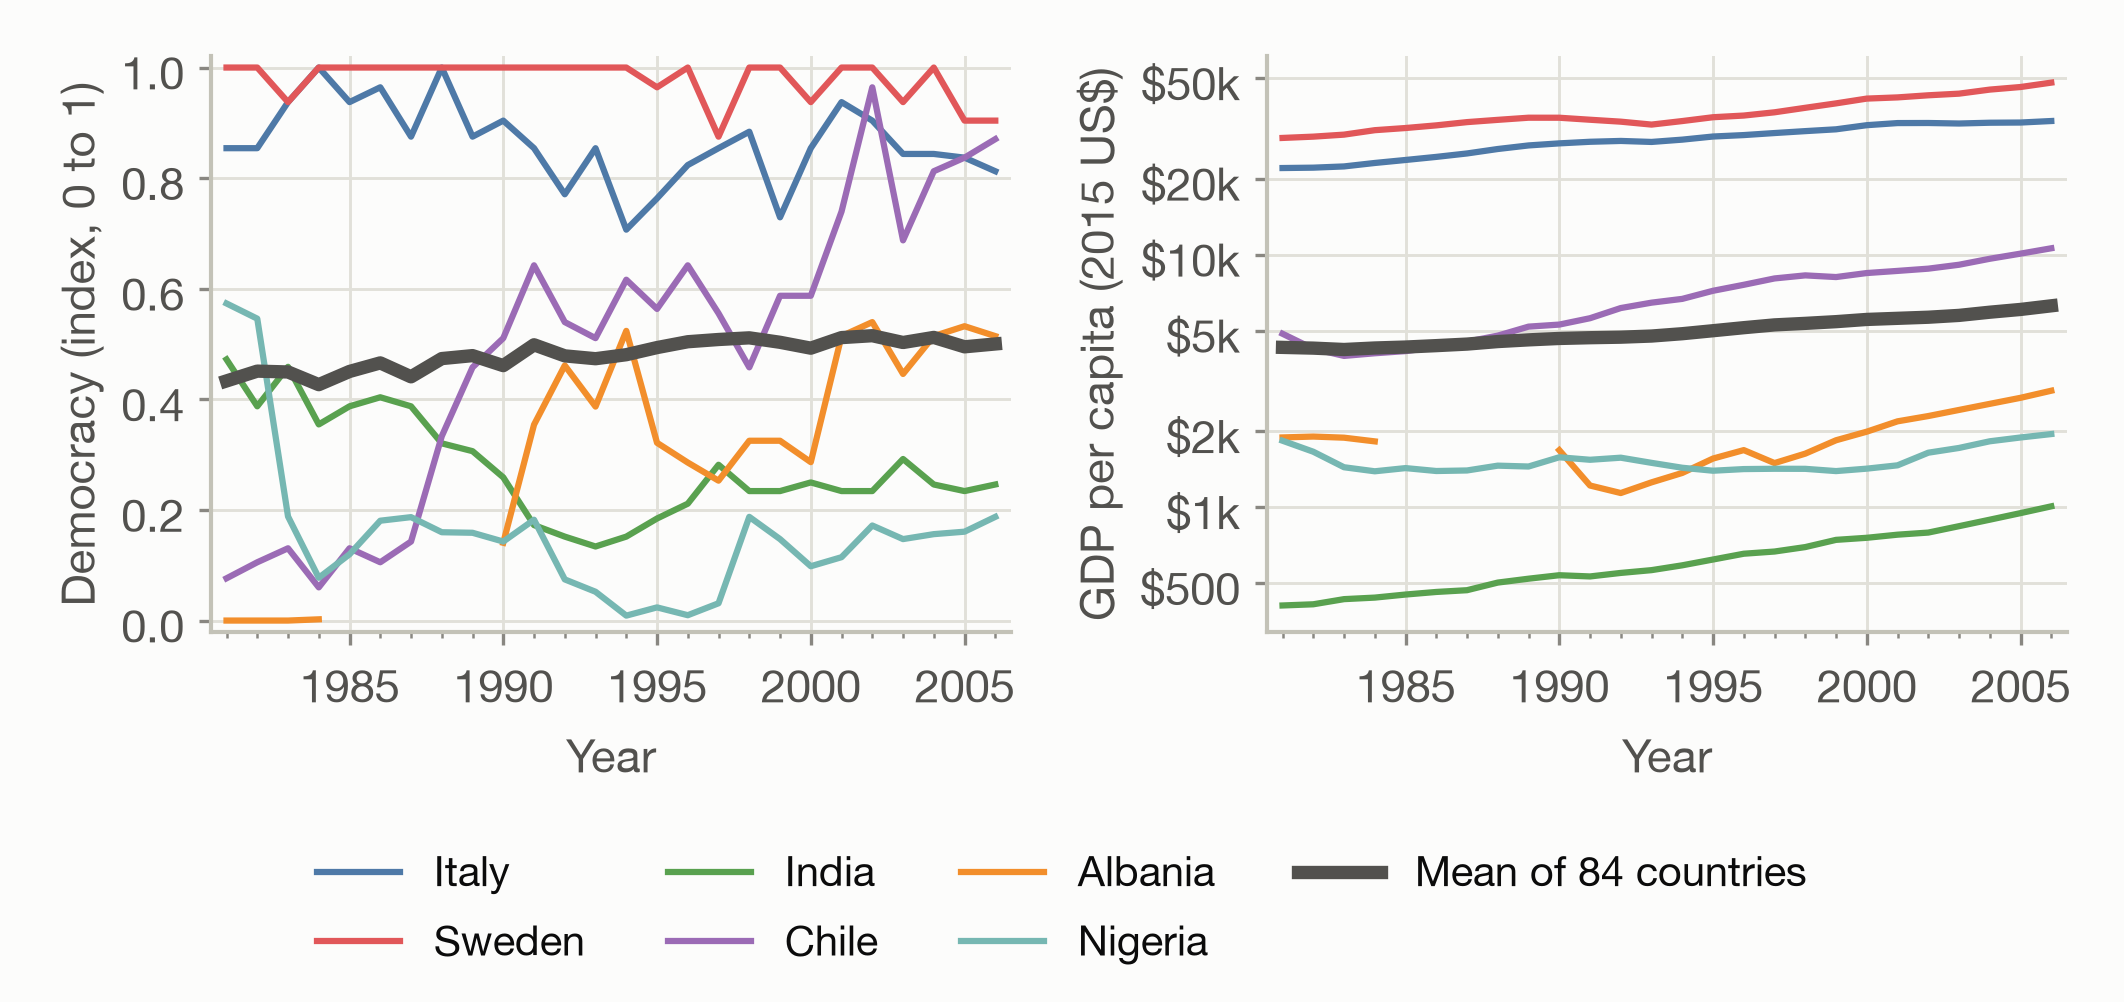
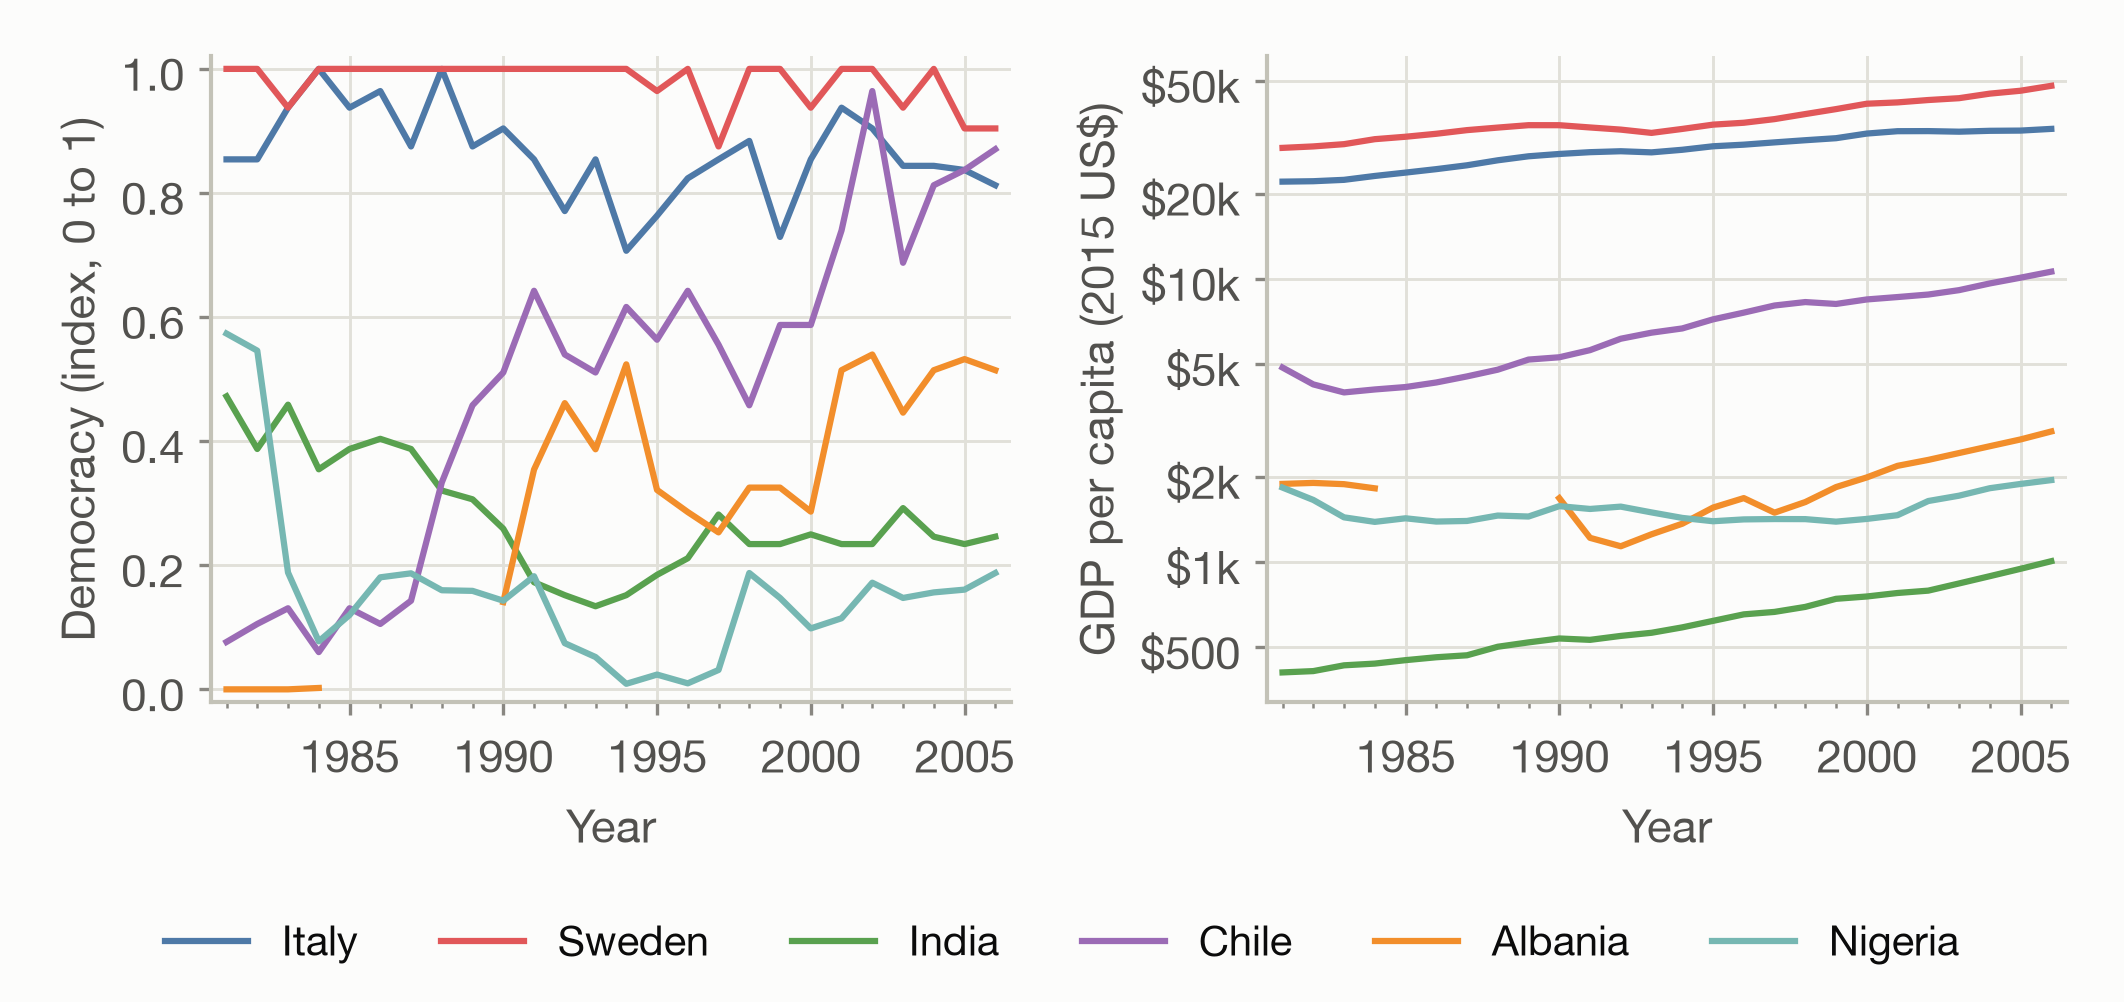
Step 3: drop the mean from Figures 1 and 2; text and appendix updated

diff --git a/Code/03_fig_trajectories_time.py b/Code/03_fig_trajectories_time.py
@@ -2,9 +2,7 @@
 
 Two panels: democracy D, and GDP per capita in constant 2015 US$ on a log axis,
 against year. The six representative countries are thin lines (gaps left where a
-year is missing); the mean over the balanced countries (both variables in every
-year) is a thick line. The GDP mean is the mean of G mapped back to dollars, i.e.
-the geometric mean of GDP per capita, so it sits where the model's mean state is.
+year is missing). No mean line (locked format).
 
 Reads Code/outputs/panel.csv. Writes outputs/figures/fig1_trajectories_time.png
 and outputs/figures/dark/fig1_trajectories_time.png.
@@ -13,14 +11,11 @@ import matplotlib.pyplot as plt
 import numpy as np
 
 from sds_common import (CM, D_LABEL, G_SCALE, GDP_LABEL, REP, REP_COLOUR, YEARS,
-                        dollar_axis, load_panel, mean_colour, save, style)
+                        dollar_axis, load_panel, save, style)
 
 p = load_panel()
-p["gdp_usd"] = np.exp(G_SCALE * p["G"])  # equals gdppc; via G so the mean is consistent
+p["gdp_usd"] = np.exp(G_SCALE * p["G"])  # equals gdppc (checked to 4e-10)
 years = np.arange(YEARS[0], YEARS[1] + 1)
-mean = p[p.balanced].groupby("year")[["D", "G"]].mean().reindex(years)
-mean["gdp_usd"] = np.exp(G_SCALE * mean["G"])
-n_bal = p.loc[p.balanced, "iso3"].nunique()
 
 for theme_name in ("light", "dark"):
     t = style(theme_name)
@@ -29,8 +24,6 @@ for theme_name in ("light", "dark"):
         for iso, name in REP.items():
             s = p[p.iso3 == iso].set_index("year")[var].reindex(years)  # NaN -> gap
             ax.plot(years, s.values, color=REP_COLOUR[iso], lw=1.5, label=name)
-        ax.plot(years, mean[var].values, color=mean_colour(t), lw=3.2,
-                label=f"Mean of {n_bal} countries", zorder=5)
         ax.set_xlabel("Year")
         ax.set_ylabel(label)
         ax.set_xlim(YEARS[0] - 0.5, YEARS[1] + 0.5)
@@ -39,8 +32,8 @@ for theme_name in ("light", "dark"):
     axes[0].set_ylim(-0.02, 1.02)
     dollar_axis(axes[1], "y")
     handles, labels = axes[0].get_legend_handles_labels()
-    fig.legend(handles, labels, loc="lower center", ncol=4, frameon=False,
+    fig.legend(handles, labels, loc="lower center", ncol=6, frameon=False,
                bbox_to_anchor=(0.5, 0.0))
-    fig.tight_layout(rect=(0, 0.17, 1, 1))
+    fig.tight_layout(rect=(0, 0.1, 1, 1))
     path = save(fig, "fig1_trajectories_time", theme_name)
     print(f"figure: {path}")

diff --git a/Code/04_fig_trajectories_plane.py b/Code/04_fig_trajectories_plane.py
@@ -3,9 +3,8 @@
 GDP per capita (constant 2015 US$, log axis) across, democracy up: the same axes
 as the phase portraits. All countries with both variables in the last year as faint
 points; the six representative countries' paths over the whole period as lines
-(gaps left where a year is missing), each start marked with a filled circle; the
-path of the mean over the balanced countries as a thick line. The GDP mean is the
-mean of G mapped back to dollars (the geometric mean of GDP per capita).
+(gaps left where a year is missing), each start marked with a filled circle.
+No mean path (locked format).
 
 Reads Code/outputs/panel.csv. Writes outputs/figures/fig2_trajectories_plane.png
 and outputs/figures/dark/fig2_trajectories_plane.png.
@@ -14,14 +13,11 @@ import matplotlib.pyplot as plt
 import numpy as np
 
 from sds_common import (CM, D_LABEL, G_SCALE, GDP_LABEL, REP, REP_COLOUR, YEARS,
-                        dollar_axis, load_panel, mean_colour, save, style)
+                        dollar_axis, load_panel, save, style)
 
 p = load_panel()
 p["gdp_usd"] = np.exp(G_SCALE * p["G"])
 years = np.arange(YEARS[0], YEARS[1] + 1)
-mean = p[p.balanced].groupby("year")[["D", "G"]].mean().reindex(years)
-mean["gdp_usd"] = np.exp(G_SCALE * mean["G"])
-n_bal = p.loc[p.balanced, "iso3"].nunique()
 last = p[p.year == YEARS[1]]
 
 for theme_name in ("light", "dark"):
@@ -36,11 +32,6 @@ for theme_name in ("light", "dark"):
         first = s.dropna().iloc[0]
         ax.scatter(first.gdp_usd, first.D, s=28, color=c, zorder=4,
                    edgecolors=t.surface, linewidths=0.6)
-    ax.plot(mean.gdp_usd.values, mean.D.values, color=mean_colour(t), lw=3.2,
-            label=f"Mean of {n_bal} countries", zorder=5)
-    m0 = mean.iloc[0]
-    ax.scatter(m0.gdp_usd, m0.D, s=40, color=mean_colour(t), zorder=6,
-               edgecolors=t.surface, linewidths=0.6)
     dollar_axis(ax, "x")
     ax.set_xlabel(GDP_LABEL)
     ax.set_ylabel(D_LABEL)

diff --git a/Appendix.md b/Appendix.md
@@ -144,7 +144,7 @@ The eight parts of `The Standard Analysis` for this replication. Departures from
 | Search | Every model of every size; best by likelihood within each size; sizes compared by evidence. As in the paper. |
 | Prior | Normal, $N(0, \lambda^2 I)$, with closed-form evidence (Ranganathan et al., 2014). $\lambda$ set and stated in step 4. Noise variance as in Ranganathan et al. (2014). Departure: the paper used a uniform prior with Monte Carlo integration. |
 | Checks | Within-country correlation of residuals; correlation of errors between the two equations (the paper's seemingly unrelated regressions check); refits on resampled countries. Departure: the resampling refits are an addition. |
-| Figures | The standard figures, as revised in step 3: trajectories over time; trajectories in the $(G, D)$ plane; the data phase portrait; the model phase portrait. Representative countries: the paper's six (Italy, Sweden, India, Chile, Albania, Nigeria), chosen because they are the paper's, not from how their paths look. Albania has 21 of 26 years and is drawn with gaps. The mean is over the 84 countries with both variables in all 26 years. Departures: the paper has a one-year scatter, an all-country mean over time, and the model phase portrait. Here the scatter and mean are folded into the two trajectory figures, and the data phase portrait is added. (Superseded: the four figures first proposed, a one-year scatter and the mean over time in place of the two trajectory figures.) |
+| Figures | The standard figures, as revised in step 3: trajectories over time; trajectories in the $(G, D)$ plane; the data phase portrait; the model phase portrait. Representative countries: the paper's six (Italy, Sweden, India, Chile, Albania, Nigeria), chosen because they are the paper's, not from how their paths look. Albania has 21 of 26 years and is drawn with gaps. No mean is drawn. GDP is shown in constant 2015 US dollars on a log axis. Departures: the paper has a one-year scatter, an all-country mean over time, and the model phase portrait. Here the scatter is folded into the plane figure, the mean is dropped, and the data phase portrait is added. (Superseded: the four figures first proposed, with a one-year scatter and the mean over time in place of the two trajectory figures; then a mean over the 84 countries observed every year, drawn as a thick line and then dropped.) |
 
 ## Analysis
 
@@ -154,7 +154,7 @@ Built by `Code/02_build_panel.py` from the step 1 decisions. Counts from `Code/o
 
 - 3,679 country-years with both variables, in 184 countries, 1981–2006. These match the step 1 overlap.
 - 3,423 consecutive-year changes, from 183 countries. These are the observations the model will be fitted to.
-- 84 countries have both variables in all 26 years. They define the mean in Figures 1 and 2.
+- 84 countries have both variables in all 26 years. They defined the mean first drawn in Figures 1 and 2; the mean was then dropped (log row 15). The `balanced` flag stays in the panel but is not used by any figure.
 - 181 countries have both variables in 2006. They are the grey points in Figure 2.
 - $G$ runs from 0.425 to 0.988, and $D$ from 0 to 1.
 - 108 of the 141 exact zeros in democracy survive the join. The other 33 are in country-years with no World Bank GDP, among them North Korea, Iraq and Somalia.
@@ -187,6 +187,7 @@ Built by `Code/02_build_panel.py` from the step 1 decisions. Counts from `Code/o
 | 12 | Step 3 started. The user questioned the mean-over-time figure, which answers none of the sub-questions. A contract change replaced the first two standard figures (a one-year scatter and the mean over time) with trajectories of six representative countries plus the mean, over time and in the $(G, D)$ plane. Higher-dimensional analyses may have more figures. Counted from the data for this choice: 84 countries have both variables in all 26 years; of the paper's six, Albania has 21 years and the others all 26. | `instructions.md` `Report Format`; `Research Question` proposal |
 | 13 | Step 3. Built the analysis panel: 3,679 country-years, 3,423 changes. Drew Figures 1 (trajectories over time) and 2 (trajectories in the $(G, D)$ plane) and added them to `Results` with captions and a paragraph saying how to read them. They sit above the sub-question sub-headings, because they describe the data for all three sub-questions. |
 | 14 | Step 3. A contract rule says every variable is shown in interpretable units, so we see GDP in money. Figures 1 and 2 were redrawn with GDP in constant 2015 US dollars on a log axis. The captions and the `Results` paragraph were updated, and the `Introduction` now gives GDP's range in dollars (about \$160 to \$140,000 per person, from `panel.csv`: 164.7 to 140,615). | `instructions.md`; `Code/sds_common.py`; Figures 1–2; `Report.md` | `Code/02_build_panel.py`, `Code/03_fig_trajectories_time.py`, `Code/04_fig_trajectories_plane.py`; `Report.md` `Results` |
+| 15 | Step 3. At the user's request, dropped the mean from Figures 1 and 2: "We don't need it". A contract change locks the figure format: no mean, the user's style in the workspace themes, dollar log axes, axis labels with units, the legend off the data. Figures 1 and 2 and their scripts are the reference. It also adds "always use units when available". Figures redrawn; the `Results` paragraph and captions updated. | `instructions.md`; Figures 1–2; `Report.md` |
 
 ## Code Summary
 
@@ -195,8 +196,8 @@ Built by `Code/02_build_panel.py` from the step 1 decisions. Counts from `Code/o
 | `Code/01_describe_data.py` | Describes the two source files: shape, coverage per year, ranges, the −99 code, zeros, duplicate codes, and the overlap. It changes no data and draws no conclusions. Run with `cd Code && uv run python 01_describe_data.py`. | `Attachments/worldbank/API_NY.GDP.PCAP.KD_DS2_en_csv_v2_71952.csv` and its country metadata; `Attachments/qog_std_ts_jan15.csv` (columns `ccode`, `cname`, `year`, `ccodealp`, `wel_citrig`) | `Code/outputs/01_describe_data.txt` |
 | `Code/sds_common.py` | Shared constants and style: years, the GDP scale (12), the six representative countries and their fixed colours, figure sizing and saving. Imported by the scripts below. | — | — |
 | `Code/02_build_panel.py` | Applies the step 1 decisions and builds the panel: countries only, −99 set to missing, join on ISO3, $G = \ln(\text{GDP})/12$, 1981–2006, consecutive-year changes, and the balanced-country flag. Fits nothing. Run with `cd Code && uv run python 02_build_panel.py`. | Both source files, as above | `Code/outputs/panel.csv` (gitignored: row-level QoG data); `Code/outputs/02_panel_counts.txt` |
-| `Code/03_fig_trajectories_time.py` | Figure 1: $D$ and $G$ against year for the six countries, plus the mean of the balanced countries. Light and dark. | `Code/outputs/panel.csv` | `Code/outputs/figures/fig1_trajectories_time.png`, `…/dark/…` |
-| `Code/04_fig_trajectories_plane.py` | Figure 2: the six countries' paths and the mean's path in the $(G, D)$ plane, over all countries in 2006. Light and dark. | `Code/outputs/panel.csv` | `Code/outputs/figures/fig2_trajectories_plane.png`, `…/dark/…` |
+| `Code/03_fig_trajectories_time.py` | Figure 1: democracy and GDP per capita (dollars, log axis) against year for the six countries. Light and dark. | `Code/outputs/panel.csv` | `Code/outputs/figures/fig1_trajectories_time.png`, `…/dark/…` |
+| `Code/04_fig_trajectories_plane.py` | Figure 2: the six countries' paths in the GDP–democracy plane (dollars, log axis), over all countries in 2006. Light and dark. | `Code/outputs/panel.csv` | `Code/outputs/figures/fig2_trajectories_plane.png`, `…/dark/…` |
 
 Run order: `01_describe_data.py` (description only), then `02_build_panel.py`, then the figure scripts in any order. The scripts in `Code/` import `sds_common.py` from their own directory, so they are run without Python's isolated mode (`-I`). No downloaded file is on the import path.
 

diff --git a/Report.md b/Report.md
@@ -24,15 +24,14 @@ Rather than relating the level of one variable to the level of the other, we mod
 
 ## Results
 
-Figures 1 and 2 show the same data in two ways. Figure 1 plots each variable against time. Figure 2 plots the two variables against each other, so that a country's path through the figure is the sequence of states it passed through between 1981 and 2006. In Figure 2, a line moving up is a country becoming more democratic, and a line moving right is a country becoming richer. GDP is on a logarithmic scale, so equal distances are equal proportional changes: moving from \$1,000 to \$2,000 is the same distance as moving from \$10,000 to \$20,000. The thick line in both figures is the mean of the 84 countries that have both variables in every year from 1981 to 2006. For GDP it is the mean of the logarithm, which is the geometric mean in dollars.
-
+Figures 1 and 2 show the same data in two ways. Figure 1 plots each variable against time. Figure 2 plots the two variables against each other, so that a country's path through the figure is the sequence of states it passed through between 1981 and 2006. In Figure 2, a line moving up is a country becoming more democratic, and a line moving right is a country becoming richer. GDP is on a logarithmic scale, so equal distances are equal proportional changes: moving from \$1,000 to \$2,000 is the same distance as moving from \$10,000 to \$20,000.
 ![Figure 1](Code/outputs/figures/fig1_trajectories_time.png)
 
-<small><b>Figure 1.</b> Democracy, <em>D</em> (left), and GDP per capita in constant 2015 US dollars on a logarithmic scale (right), from 1981 to 2006. Thin lines are six countries: Italy, Sweden, India, Chile, Albania and Nigeria. The thick line is the mean of the 84 countries with both variables in all 26 years. Albania has no observations for 1985–1989, shown as a gap.</small>
+<small><b>Figure 1.</b> Democracy, <em>D</em> (left), and GDP per capita in constant 2015 US dollars on a logarithmic scale (right), from 1981 to 2006. Lines are six countries: Italy, Sweden, India, Chile, Albania and Nigeria. Albania has no observations for 1985–1989, shown as a gap.</small>
 
 ![Figure 2](Code/outputs/figures/fig2_trajectories_plane.png)
 
-<small><b>Figure 2.</b> Democracy, <em>D</em>, against GDP per capita in constant 2015 US dollars on a logarithmic scale. Grey points are the 181 countries with both variables in 2006. Coloured lines are the paths of the six countries in Figure 1 from 1981 to 2006, with a filled circle at 1981. The thick line is the path of the mean of the 84 countries with both variables in all 26 years, with a filled circle at 1981.</small>
+<small><b>Figure 2.</b> Democracy, <em>D</em>, against GDP per capita in constant 2015 US dollars on a logarithmic scale. Grey points are the 181 countries with both variables in 2006. Coloured lines are the paths of the six countries in Figure 1 from 1981 to 2006, with a filled circle at 1981.</small>
 
 ## Discussion
 
